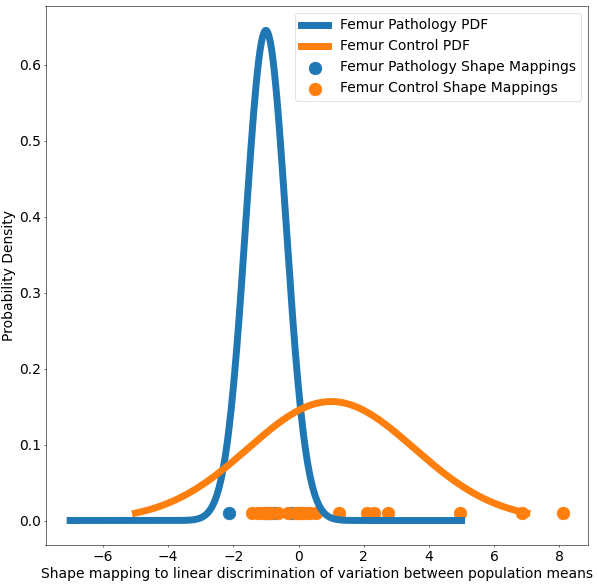
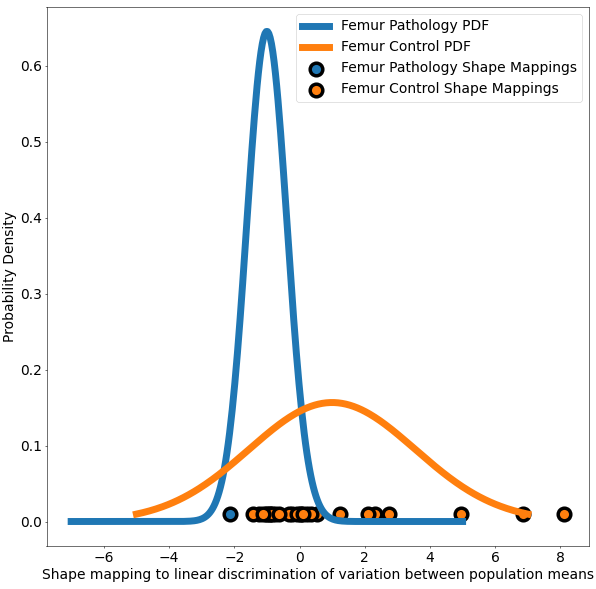
adding outline to the LDA plot

Changed region(s): [[0.0, 0.0, 0.9966, 1.0]]

diff --git a/Python/shapeworks/shapeworks/plot.py b/Python/shapeworks/shapeworks/plot.py
@@ -482,8 +482,8 @@ def lda_plot(group1_x,group2_x,group1_pdf,group2_pdf,group1_map,group2_map,lda_d
     plt.plot(group1_x, group1_pdf, label = labels[0] + ' PDF',linewidth=10)
     plt.plot(group2_x, group2_pdf, label = labels[1] + ' PDF',linewidth=10)
     
-    plt.scatter(group1_map, 0.01*np.ones((group1_num)), s=330, label = labels[0] + ' Shape Mappings')
-    plt.scatter(group2_map, 0.01*np.ones((group2_num)), s=330, label = labels[1] + ' Shape Mappings')
+    plt.scatter(group1_map, 0.01*np.ones((group1_num)), s=330, label = labels[0] + ' Shape Mappings', edgecolors='black',linewidths=5)
+    plt.scatter(group2_map, 0.01*np.ones((group2_num)), s=330, label = labels[1] + ' Shape Mappings', edgecolors='black',linewidths=5)
     plt.ylabel("Probability Density")
     plt.xlabel('Shape mapping to linear discrimination of variation between population means')
     plt.legend(loc='upper right')
